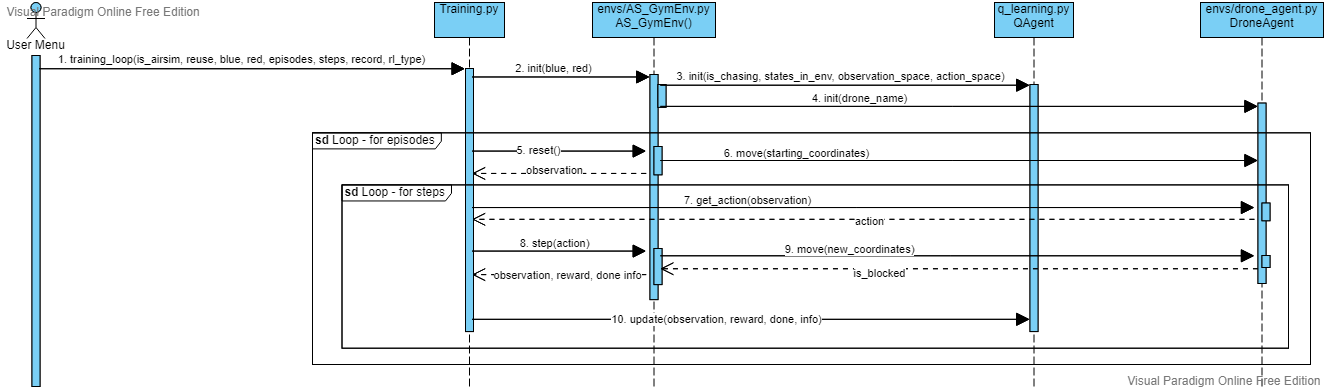
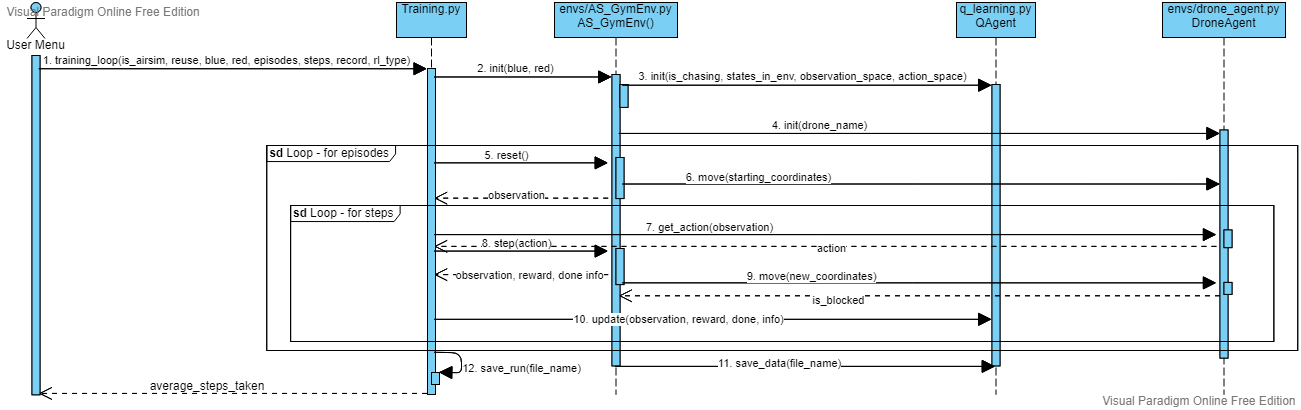
Update Sequence + AgentUpdates

diff --git a/AS_Gym/training.py b/AS_Gym/training.py
@@ -56,28 +56,14 @@ def do_env_step(env, blue, red, actions):
     return observation, reward, done, info
 
 
-def update_agents(env, blue, red, observation, actions, reward, info, done, steps, steps_in, total_steps, episodes):
-    # if end of episode reached
-    if (not done) and (steps == (steps_in - 1)):
-        env.Agent1.update(info[0][0], info[0][1], actions[0], reward[0], observation[0], done)
-        if blue >= 2:
-            env.Agent2.update(info[1][0], info[1][1], actions[1], reward[1], observation[1], done)
-        if red >= 1:
-            env.Agent3.update(info[2][0], info[2][1], actions[2], 1, observation[2], done)
-        if red >= 2:
-            env.Agent3.update(info[3][0], info[3][1], actions[3], 1, observation[3], done)
-        total_steps += steps
-        if (episodes % 1000) == 0:
-            print("Ep:", episodes, "destination not reached! Step:", steps)
-    else:
-        env.Agent1.update(info[0][0], info[0][1], actions[0], reward[0], observation[0], done)
-        if blue >= 2:
-            env.Agent2.update(info[1][0], info[1][1], actions[1], reward[1], observation[1], done)
-        if red >= 1:
-            env.Agent3.update(info[2][0], info[2][1], actions[2], reward[2], observation[2], done)
-        if red >= 2:
-            env.Agent3.update(info[3][0], info[3][1], actions[3], reward[3], observation[3], done)
-    return total_steps
+def update_agents(env, blue, red, observation, actions, reward, info, done):
+    env.Agent1.update(info[0][0], info[0][1], actions[0], reward[0], observation[0], done)
+    if blue >= 2:
+        env.Agent2.update(info[1][0], info[1][1], actions[1], reward[1], observation[1], done)
+    if red >= 1:
+        env.Agent3.update(info[2][0], info[2][1], actions[2], reward[2], observation[2], done)
+    if red >= 2:
+        env.Agent3.update(info[3][0], info[3][1], actions[3], reward[3], observation[3], done)
 
 
 def save_agents(env, blue, red):
@@ -130,8 +116,13 @@ def training_loop(
 
             # update reinforcement learning
             if learning:
-                total_steps = update_agents(
-                    env, blue, red, observation, actions, reward, info, done, steps, steps_in, total_steps, episodes)
+                # if end of episode reached, update counter agents with goal reward
+                if (not done) and (steps == steps_in - 1):
+                    total_steps += steps
+                    if (episodes % 1000) == 0:
+                        update_agents(env, blue, red, observation, actions, [reward[0], reward[1], 1, 1], info, done)
+                    else:
+                        update_agents(env, blue, red, observation, actions, reward, info, done)
 
             # if saving paths
             if rec_paths:
